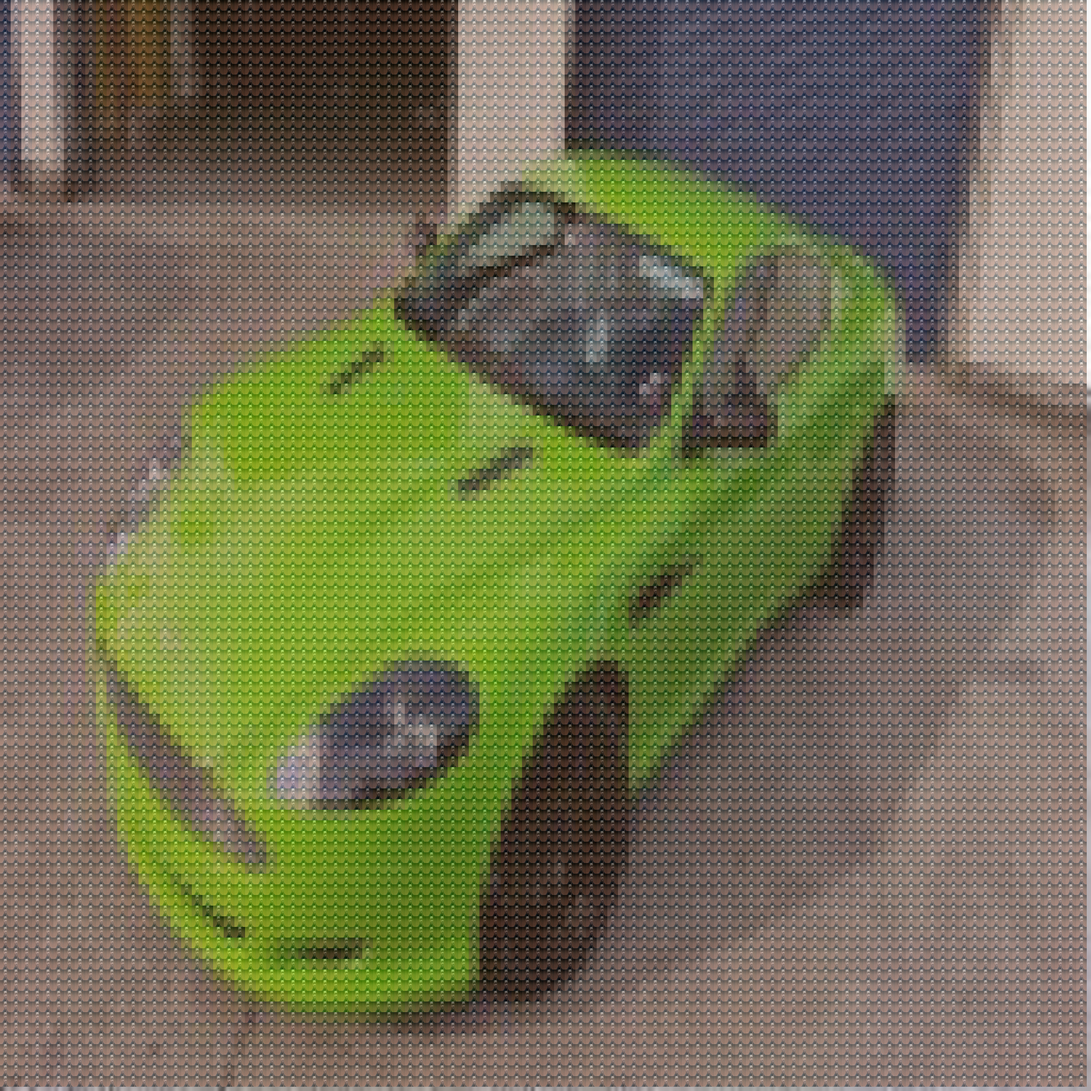
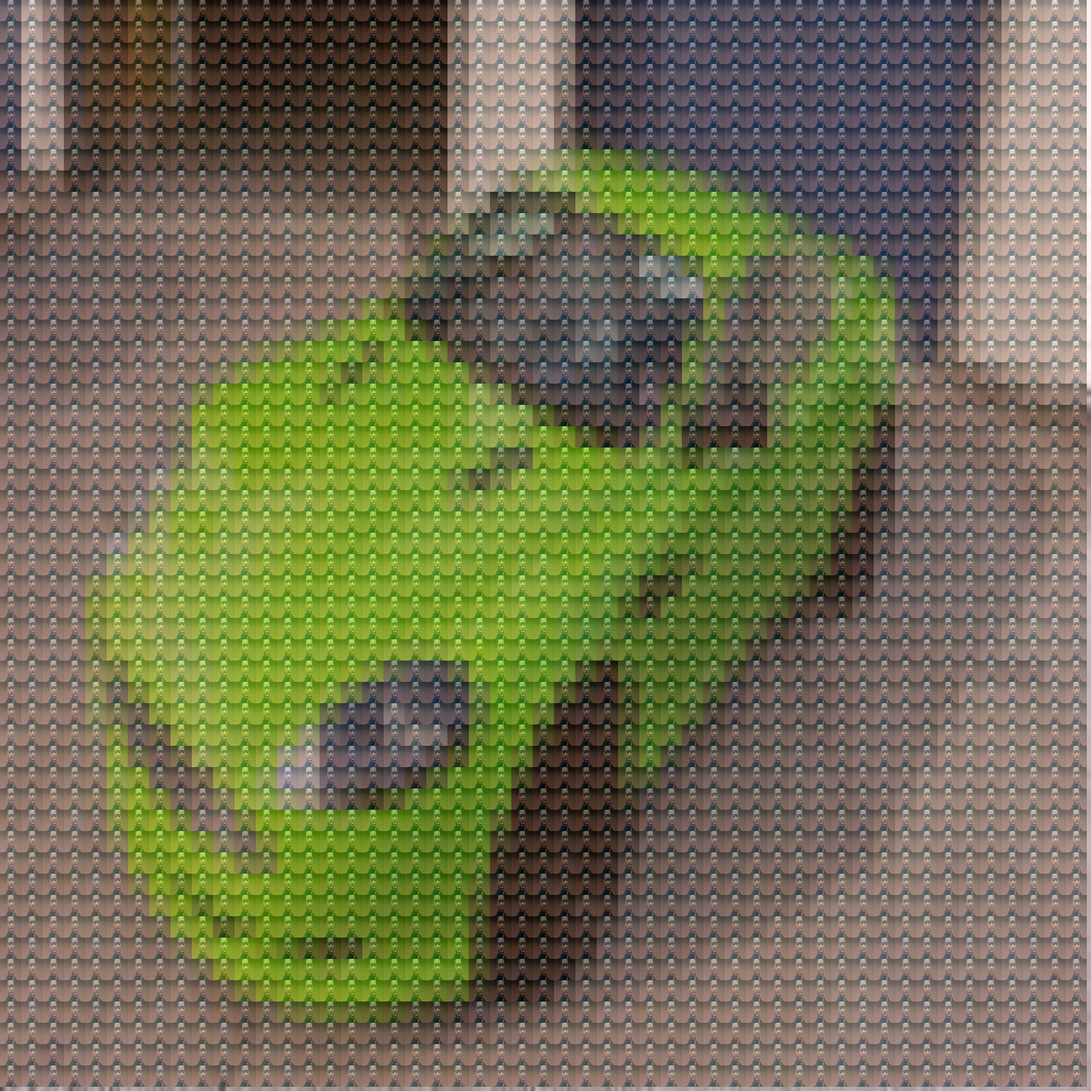
dzepetto

diff --git a/Sem4/big_data/projekt.py b/Sem4/big_data/projekt.py
@@ -75,7 +75,7 @@ def fill_all_photos(dir_out):
     for file in files:
         file_path = os.path.join(path_with_photos, file)
         file_path_out = os.path.join(dir_out, f"nr{c}-{file}")
-        photo = threading.Thread(target = fill_og_with_small, args=(file_path, file_path_out, 20, 2048, 2048, "grzesiu.png" ))
+        photo = threading.Thread(target = fill_og_with_small, args=(file_path, file_path_out, 40, 2048, 2048, "grzesiu.png" ))
         photos.append(photo)
         photo.start()
         c += 1
